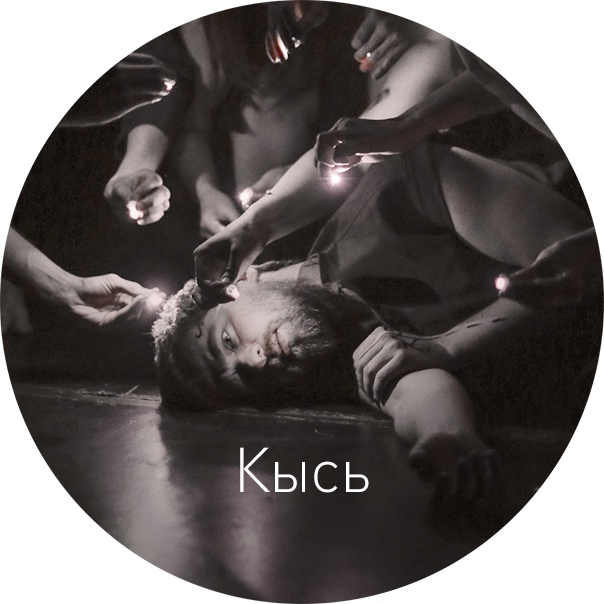
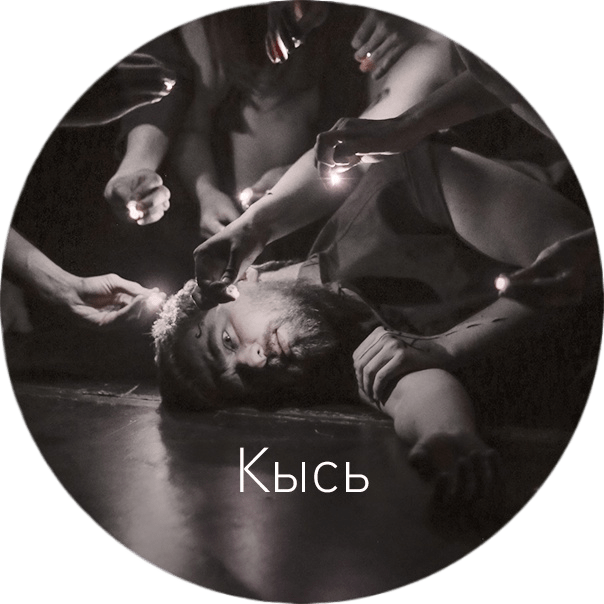
fix photos

diff --git a/backend/db/seeders/20230123181150-demo-director.js b/backend/db/seeders/20230123181150-demo-director.js
@@ -6,7 +6,7 @@ module.exports = {
         firstName: 'Мария Александровна',
         secondName: 'Левицкая',
         mainPhoto: '/images/directors/levitskaya.jpg',
-        smallPhoto: '/images/directors/levitskaya1.jpg',
+        smallPhoto: '/images/directors/levitskaya1.png',
         title:
           'Мария Левицкая – основатель и бессменный руководитель Театра-студии «Кумкуат». Увлеклась театром еще в детстве, а если точнее, в 1997 году, придя заниматься в Центр «Семья», основанный Зиновием Яковлевичем Корогодским, легендарным режиссером ЛенТЮЗа и художественным руководителем Театра Поколений.',
         body: 'В 2000 году поступила в Санкт Петербургский Университет Профсоюзов (специальность «Режиссура драматического театра») на курс Мастера, З. Я.Корогодского (после смерти З. Я. в 2004 году курс возглавил В. Б. Пази, художественный руководитель театра им. Ленсовета). Своими главными учителями в профессии, помимо З. Я., считает А. Д. Арефьева, Е. В. Вановскую, А. В. Вишневскую. С 2002 года стала работать в Театре Поколений как актриса. Уже в 2003 году начала педагогическую деятельность в своей alma-mater, Творческом Центре «Семья» (позже - Школа Искусств «Театральная Семья»). Закончила Университет в 2005 году с дипломным спектаклем «Птица Феникс» (по пьесе Н. Коляды). В 2006 году оставила Театр Поколений, так как решила не продолжать актёрскую карьеру, а попробовать посвятить себя театральной педагогике. Неудивительно, что именно в этом году и был основан Театр-студия «Кумкуат». Именно здесь М. Л. состоялась как режиссёр, обрела свой творческий почерк. За время существования «Кумкуата» ею было создано – в одиночку и в соавторстве – около 15 спектаклей. Помимо режиссуры, М. Л. не прекращала заниматься педагогикой, шлифуя методики, приобретая новые знания, находя актуальные подходы к Школе, взятой у своих Мастеров.',
@@ -19,7 +19,7 @@ module.exports = {
         firstName: 'Александр',
         secondName: 'Насенков',
         mainPhoto: '/images/directors/nasenkov.jpg',
-        smallPhoto: '/images/directors/nasenkov1.jpg',
+        smallPhoto: '/images/directors/nasenkov1.png',
         title:
           '«Необязательно, чтобы он себе ответил на этот вопрос. Самое важное – вопросы.»',
         body: 'Режиссёр первого спектакля режиссёрской резидентуры Кумкуата - «Самоубийца».\n\nИзучал актерское мастерство и режиссуру в Российском Государственном Институте Сценических Искусств.',

diff --git a/backend/db/seeders/20230123181215-demo-actor.js b/backend/db/seeders/20230123181215-demo-actor.js
@@ -34,7 +34,7 @@ module.exports = {
         firstName: 'Денис',
         secondName: 'Черемонцев',
         mainPhoto: '/images/actors/cheremoncev.jpg',
-        smallPhoto: '/images/actors/cheremoncev1.jpg',
+        smallPhoto: '/images/actors/cheremoncev1.png',
         title:
           'Обучался в Студии Первого Уровня в 2012-2013 годах. В начале 2014 года стал полноправным членом «Кумкуата» и с тех пор является его неотъемлемой частью.',
         body: 'Основные роли: Стражник, Гемон («Антигона»), Кинооператор, Проверяющий, Сонный, Федя («Фабричная девчонка»), Бартли МакКормик («Калека с острова Инишмаан»), Математик («ХРМСА»), Сашка («Вам и не снилось») (спектакль-ремейк), Муми-тролль («Опасное Лето») (спектакль-ремейк), Трофимов («Вишнёвый сад»), Джонни («Пациенты»), Александр Петрович («Самоубийца»), Фёдор Кузьмич («Кысь»), роли в спектаклях «Уроки Пространства Инстинкта», «Маленькие Чёрные Человечки, Живущие В Моей Голове», «От Красной Крысы до Зеленой Звезды» (спектакль-ремейк), «Когда ты прячешь Солнце, мне грустно», «Лабрум», «Страх».',
@@ -184,7 +184,7 @@ module.exports = {
         firstName: 'Александр',
         secondName: 'Бояркин',
         mainPhoto: '/images/actors/boyarkin.jpg',
-        smallPhoto: '/images/actors/boyarkin1.jpg',
+        smallPhoto: '/images/actors/boyarkin1.png',
         title:
           'Обучался в Студии Первого Уровня в 2018-2019 годах. 29 сентября 2020 года вступил в основную труппу «Кумкуата».',
         body: 'Основные роли: Мркоков («ХРМСА»), Виктор Викторович («Самоубийца»), Лев Львович («Кысь»), роли в спектаклях «Стеклянный зверинец», «Страх».',

diff --git a/frontend/src/features/Swiper/Swiper.tsx b/frontend/src/features/Swiper/Swiper.tsx
@@ -40,6 +40,8 @@ export default function MainSwiper(): JSX.Element {
               className="swiper-img"
             />
           </a>
+          <span className="news__title">26 февраля 19:30</span>
+          <span className="news__text">«ХРМСА»</span>
         </SwiperSlide>
         <SwiperSlide>
           <a href="/spectacles/1">
@@ -49,6 +51,8 @@ export default function MainSwiper(): JSX.Element {
               className="swiper-img"
             />
           </a>
+          <span className="news__title">18 марта 19:30</span>
+          <span className="news__text">«КЫСЬ»</span>
         </SwiperSlide>
         <SwiperSlide>
           <a href="/spectacles/4">
@@ -58,13 +62,13 @@ export default function MainSwiper(): JSX.Element {
               className="swiper-img"
             />
           </a>
+          <span className="news__title">4 марта 20:00</span>
+          <span className="news__text">«Самоубийца 1928 г.»</span>
         </SwiperSlide>
       </Swiper>
       <a href="#Affiche" className="arrow">
         <div className="arrow-down" />
       </a>
-      <span className="news__title">26 февраля 19:30</span>
-      <span className="news__text">«ХРМСА»</span>
     </div>
   );
 }

diff --git a/frontend/src/features/Affiche/AfficheEvent.tsx b/frontend/src/features/Affiche/AfficheEvent.tsx
@@ -7,26 +7,25 @@ export default function AfficheEvent({
   affiche: Affiche;
 }): JSX.Element {
   return (
-    <div>
-      <div className="affiche__text">
-        <span className="affiche__text-data">{affiche.date}</span>
-        <span>
-          {affiche.time}
-          <br />
-          {affiche.day}
-        </span>
-        <span>
-          {affiche.title}
-          <br />
-          {affiche.adress}
-        </span>
-        <span>{affiche.price}</span>
-        <span>
-          <a href="#twf" className="sell">
-            Купить билет
-          </a>
-        </span>
-      </div>
+    <div className="affiche__text">
+      <span className="affiche__text-data">{affiche.date}</span>
+      <span>
+        {affiche.time}
+        <br />
+        {affiche.day}
+      </span>
+      <span>
+        {affiche.title}
+        <br />
+        {affiche.adress}
+      </span>
+      <span>{affiche.price} рублей</span>
+      <span>
+        {/* <a href="#twf" className="sell"> */}
+        <a href="https://teatrkumkuat.timepad.ru/events/" className="sell">
+          Купить билет
+        </a>
+      </span>
     </div>
   );
 }

diff --git a/frontend/src/features/Spectacles/SpectaclesList.tsx b/frontend/src/features/Spectacles/SpectaclesList.tsx
@@ -11,21 +11,19 @@ export default function SpectaclesList(): JSX.Element {
   );
   const dispatch = useAppDispatch();
   useEffect(() => {
-    // dispatch(getSpectacles());
+    dispatch(getSpectacles());
   }, [dispatch]);
   return (
     <div className="spectacle">
       <div className="container">
         <h1 className="spectacle__title">СПЕКТАКЛИ</h1>
         <div className="spectacle__flex">
-          {spectacles
-            .map(
-              (spectacle) =>
-                spectacle.isActual && (
-                  <SpectacleCard key={spectacle.id} spectacle={spectacle} />
-                ),
-            )
-            .filter((el, i) => i < 3)}
+          {spectacles.map(
+            (spectacle) =>
+              spectacle.isActual && (
+                <SpectacleCard key={spectacle.id} spectacle={spectacle} />
+              ),
+          )}
         </div>
       </div>
     </div>

diff --git a/frontend/src/features/Affiche/Affiche.tsx b/frontend/src/features/Affiche/Affiche.tsx
@@ -17,25 +17,6 @@ export default function Affiche(): JSX.Element {
           АФИША
         </h1>
         <AfficheEventList />
-        {/* <div className="affiche__text">
-          <span className="affiche__text-data">26.02</span>
-          <span>
-            19:30
-            <br />
-            воскресенье
-          </span>
-          <span>
-            ХРМСА
-            <br />
-            Курляндская 49
-          </span>
-          <span>750 руб.</span>
-          <span>
-            <a href="#twf" className="sell">
-              Купить билет
-            </a>
-          </span>
-        </div> */}
       </div>
     </div>
   );

diff --git a/backend/index.js b/backend/index.js
@@ -44,7 +44,7 @@ app.use('/auth', authRouter);
 app.use('/directors', directorsRouter);
 app.use('/products', productsRouter);
 app.use('/subscribers', subscribersRouter);
-app.use('/events', eventsRouter);
+app.use('/affiches', eventsRouter);
 
 app
   .listen(PORT)

diff --git a/frontend/src/features/Affiche/AfficheEventList.tsx b/frontend/src/features/Affiche/AfficheEventList.tsx
@@ -9,7 +9,7 @@ export default function AfficheEventList(): JSX.Element {
   const dispatch = useAppDispatch();
   useEffect(() => {
     dispatch(getAffiches());
-  }, [dispatch]);
+  }, []);
   return (
     <div>
       {affiches.map(

diff --git a/frontend/src/features/Affiche/Affiche.scss b/frontend/src/features/Affiche/Affiche.scss
@@ -2,6 +2,8 @@
 
 .affiche {
   margin-bottom: 100px;
+  background-color: white;
+  padding-bottom: 90px;
 
   &__block {
     position: relative;
